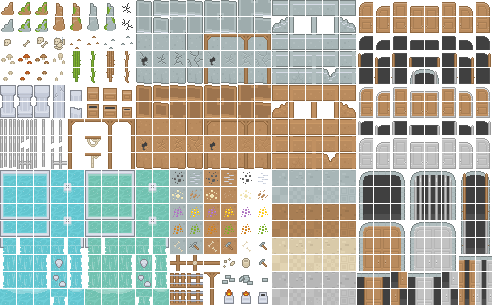
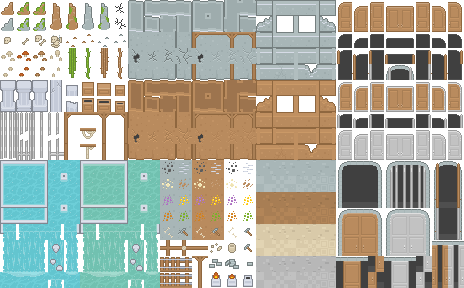
hodgepodge of stuff
remove margin from spritesheets
new map dimension
wider camera
optimize the floor to be just one mesh

Changed region(s): [[0.0, 0.0, 1.0, 1.0], [0.5129, 0.625, 0.5431, 0.6562]]

diff --git a/public/javascripts/sketches/game.js b/public/javascripts/sketches/game.js
@@ -15,9 +15,9 @@
         }
 
         var MATERIALS = {
-            "tiles": load("/images/roguelikeSheet_transparent.png", 968, 526),
-            "dungeon": load("/images/roguelikeDungeon_transparent.png", 492, 305),
-            "characters": load("/images/roguelikeChar_transparent.png", 918, 203)
+            "tiles": load("/images/roguelikeSheet_transparent.png", 912, 496),
+            "dungeon": load("/images/roguelikeDungeon_transparent.png", 464, 288),
+            "characters": load("/images/roguelikeChar_transparent.png", 864, 192)
         };
 
         var geometryCache = {};
@@ -37,18 +37,16 @@
                 new THREE.Face3(0, 1, 2),
                 new THREE.Face3(0, 2, 3)
             );
-            // small epsilon to ensure transparency isn't hit
-            var e = 0.10;
             geometry.faceVertexUvs[0].push(
                 [
-                    new THREE.Vector2(e + 17*x     , e + 17*y     ),
-                    new THREE.Vector2(-e + 17*x + 16, e + 17*y     ),
-                    new THREE.Vector2(-e + 17*x + 16, -e + 17*y + 16)
+                    new THREE.Vector2(16*x     , 16*y     ),
+                    new THREE.Vector2(16*x + 16, 16*y     ),
+                    new THREE.Vector2(16*x + 16, 16*y + 16)
                 ],
                 [
-                    new THREE.Vector2(e + 17*x     , e + 17*y     ),
-                    new THREE.Vector2(-e + 17*x + 16, -e + 17*y + 16),
-                    new THREE.Vector2(e + 17*x     , -e + 17*y + 16)
+                    new THREE.Vector2(16*x     , 16*y     ),
+                    new THREE.Vector2(16*x + 16, 16*y + 16),
+                    new THREE.Vector2(16*x     , 16*y + 16)
                 ]
             );
             return geometry;
@@ -57,7 +55,8 @@
         function getMesh(x, y, tileSet) {
             var material = MATERIALS[tileSet || "tiles"];
             var geometry = getGeometry(x, y);
-            return new THREE.Mesh(geometry, material);
+            var mesh = new THREE.Mesh(geometry, material);
+            return mesh;
         }
 
         // offset from the "center" tile
@@ -159,7 +158,8 @@
             getMesh: getMesh,
             getGeometry: getGeometry,
             getBasicConnectorTileOffset: getBasicConnectorTileOffset,
-            getConnectorTileOffset: getConnectorTileOffset
+            getConnectorTileOffset: getConnectorTileOffset,
+            MATERIALS: MATERIALS
         };
     })();
 
@@ -200,12 +200,12 @@
             this.energy -= 1;
             while (levels[this.depth].get(this.target.x, this.target.y) < 0) {
                 if (this.depth >= levels.length - 1) {
-                    return;
+                    break;
                 }
                 this.moveDepth(1);
                 this.energy -= 10;
-                HUD.updateEnergyIndicator();
             }
+            HUD.updateEnergyIndicator();
         }
         // initialize target z
         person.moveDepth(0);
@@ -292,7 +292,7 @@
         function buildLevelMesh(depth) {
             function getWantedZ() {
                 if (playerMesh.depth <= depth) {
-                    return -playerMesh.depth - (depth - playerMesh.depth) * 0.3;
+                    return -playerMesh.depth - (depth - playerMesh.depth) * 0.2;
                 } else {
                     return -depth;
                 }
@@ -307,12 +307,12 @@
             return level;
         }
 
-        function Level(width, height, depth, generator, getFloorMesh) {
+        function Level(width, height, depth, generator, getFloorTile) {
             this.width = width;
             this.height = height;
             this.depth = depth;
             this.generator = generator;
-            this.getFloorMesh = getFloorMesh;
+            this.getFloorTile = getFloorTile;
             this.mesh = buildLevelMesh(depth);
 
             // -1 = empty space
@@ -346,16 +346,42 @@
         }
 
         Level.prototype.updateMesh = function() {
-            for(i = 0; i < this.width * this.height; i++) {
+            var geometry = new THREE.Geometry();
+            for(var i = 0; i < this.width * this.height; i++) {
                 if (this.grid[i] >= 0) {
                     var x = i % this.width;
                     var y = Math.floor(i / this.width);
-                    var mesh = this.getFloorMesh(x, y);
-                    mesh.position.x = x;
-                    mesh.position.y = y;
-                    this.mesh.add(mesh);
+                    var tile = this.getFloorTile(x, y);
+                    var sx = tile[0],
+                        sy = tile[1];
+
+                    var vIndex = geometry.vertices.length;
+                    geometry.vertices.push(
+                        new THREE.Vector3(x,   y,   0),
+                        new THREE.Vector3(x+1, y,   0),
+                        new THREE.Vector3(x+1, y+1, 0),
+                        new THREE.Vector3(x,   y+1, 0)
+                    );
+                    geometry.faces.push(
+                        new THREE.Face3(vIndex, vIndex+1, vIndex+2),
+                        new THREE.Face3(vIndex, vIndex+2, vIndex+3)
+                    );
+                    geometry.faceVertexUvs[0].push(
+                        [
+                            new THREE.Vector2(16*sx,     16*sy    ),
+                            new THREE.Vector2(16*(sx+1), 16*sy    ),
+                            new THREE.Vector2(16*(sx+1), 16*(sy+1))
+                        ],
+                        [
+                            new THREE.Vector2(16*sx,     16*sy    ),
+                            new THREE.Vector2(16*(sx+1), 16*(sy+1)),
+                            new THREE.Vector2(16*sx,     16*(sy+1))
+                        ]
+                    );
                 }
             }
+            var floorMesh = new THREE.Mesh(geometry, SpriteSheet.MATERIALS["tiles"]);
+            this.mesh.add(floorMesh);
         }
 
         Level.prototype.addObjects = function(callback, shouldObstruct) {
@@ -387,11 +413,11 @@
                 }
             }
 
-            function getFloorMesh(x, y) {
-                return SpriteSheet.getMesh(3, 14, "tiles");
+            function getFloorTile(x, y) {
+                return [3, 14];
             }
 
-            var level = new Level(width, height, 0, generator, getFloorMesh);
+            var level = new Level(width, height, 0, generator, getFloorTile);
 
             level.addObjects(function(x, y) {
                 var flowerExists = Math.sin((x*3+25.2)*(y*0.9+345.3492) / 2) < -0.99;
@@ -401,7 +427,7 @@
             }, false);
 
             level.addObjects(function(x, y) {
-                if ((x < 4 || x > 34 || y < 4 || y > 20) &&
+                if ((x < 4 || x > width - 4 || y < 4 || y > height -4) &&
                     (y+x)%2 == 0) {
                     var tree = new THREE.Object3D();
                     tree.position.set(x, y, 0.002);
@@ -431,12 +457,12 @@
                 }
             }
 
-            function getFloorMesh(x, y) {
+            function getFloorTile(x, y) {
                 var offset = SpriteSheet.getConnectorTileOffset(floorExists, x, y);
-                return SpriteSheet.getMesh(8 + offset[0], 20 + offset[1], "tiles");
+                return [8 + offset[0], 20 + offset[1]];
             }
 
-            var level = new Level(width, height, depth, generator, getFloorMesh);
+            var level = new Level(width, height, depth, generator, getFloorTile);
 
             level.addObjects(function(x, y) {
                 var offset = SpriteSheet.getConnectorTileOffset(floorExists, x, y);
@@ -460,11 +486,11 @@
                 return 0;
             }
 
-            function getFloorMesh(x, y) {
-                return SpriteSheet.getMesh(6, 28, "tiles");
+            function getFloorTile(x, y) {
+                return [6, 28];
             }
 
-            var level = new Level(width, height, depth, generator, getFloorMesh);
+            var level = new Level(width, height, depth, generator, getFloorTile);
 
             function blueMatExists(x, y) {
                 return Math.abs(x + 0.5 - width/2) < 5 && Math.abs(y + 0.5 - height/2) < 5;
@@ -682,10 +708,10 @@
         document.body.appendChild( stats.domElement );
 
         scene = new THREE.Scene();
-        scene.fog = new THREE.Fog(0x000000, 1, 4);
+        scene.fog = new THREE.Fog(0x000000, 1, 2);
         window.scene = scene;
         // camera = new THREE.OrthographicCamera(0, 0, 0, 0, 0.0001, 1000);
-        camera = new THREE.PerspectiveCamera(160, 1, 0.01, 10);
+        camera = new THREE.PerspectiveCamera(165, 1, 0.01, 3);
         setCameraDimensions(canvas.width, canvas.height);
 
         playerMesh = GameObjects.makePerson(new THREE.Vector3(20, 14, 0.001));
@@ -693,10 +719,12 @@
         playerMesh.add(camera);
         camera.position.set(0.5, 0.5, 1);
 
-        levels.push(Map.buildOutdoorsLevel(38, 24));
-        levels.push(Map.buildCaveLevel(38, 24, 1));
-        levels.push(Map.buildCaveLevel(38, 24, 2));
-        levels.push(Map.buildCaveLevel(38, 24, 3));
+        var w = 60;
+        var h = 40;
+        levels.push(Map.buildOutdoorsLevel(w, h));
+        levels.push(Map.buildCaveLevel(w, h, 1));
+        levels.push(Map.buildCaveLevel(w, h, 2));
+        levels.push(Map.buildCaveLevel(w, h, 3));
         levels.push(Map.buildLastLevel(4));
         scene.add(levels[0].mesh);
         scene.add(levels[1].mesh);
